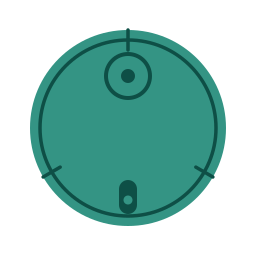
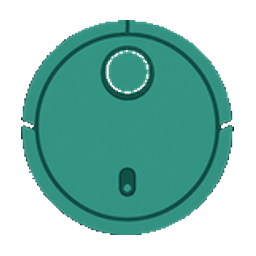
Restore the extracted vacuum PNGs and drop the SVG redraw.

Changed region(s): [[0.0625, 0.0625, 0.9375, 0.9375]]

diff --git a/README.md b/README.md
@@ -1,7 +1,7 @@
 # Honor Robot Cleaner
 
 <p align="center">
-  <img src="images/logo.svg" alt="Logo" width="112"/>
+  <img src="images/logo.png" alt="Logo" width="112"/>
 </p>
 
 <p align="center">
